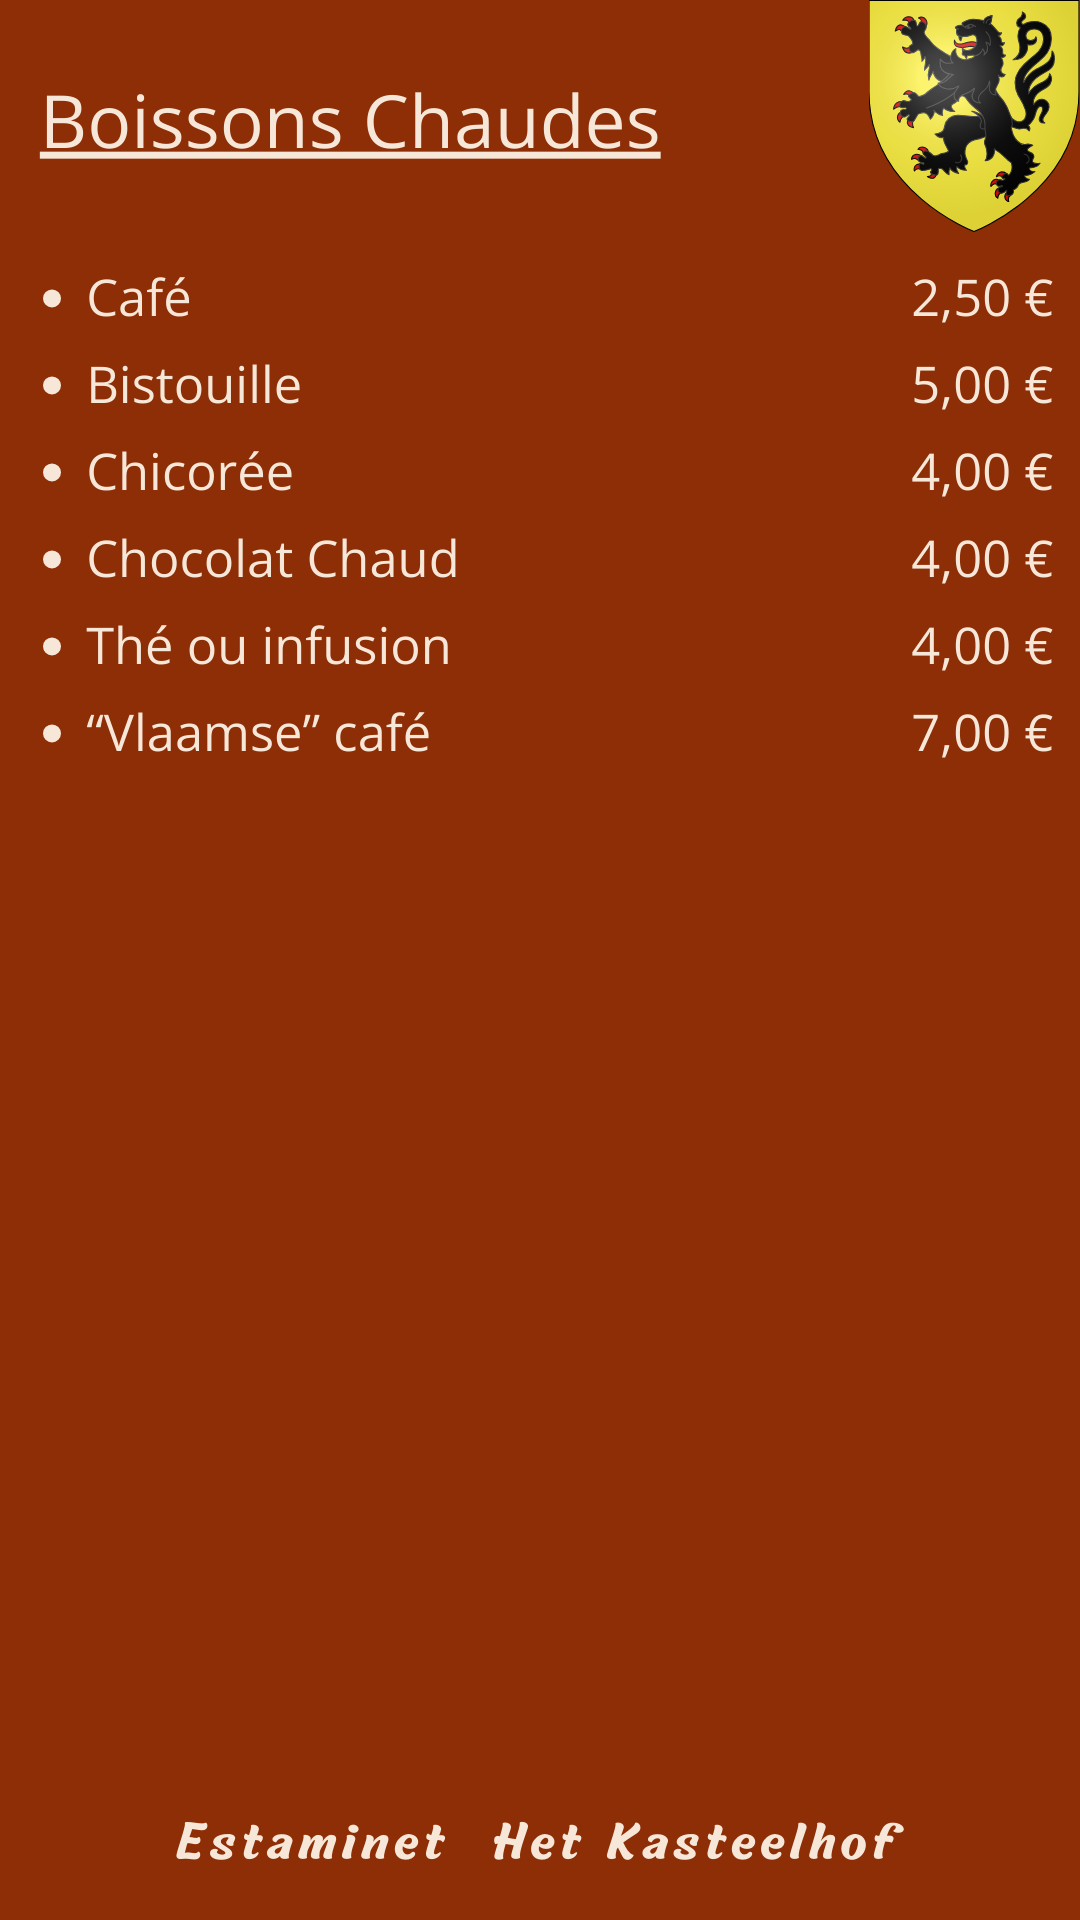
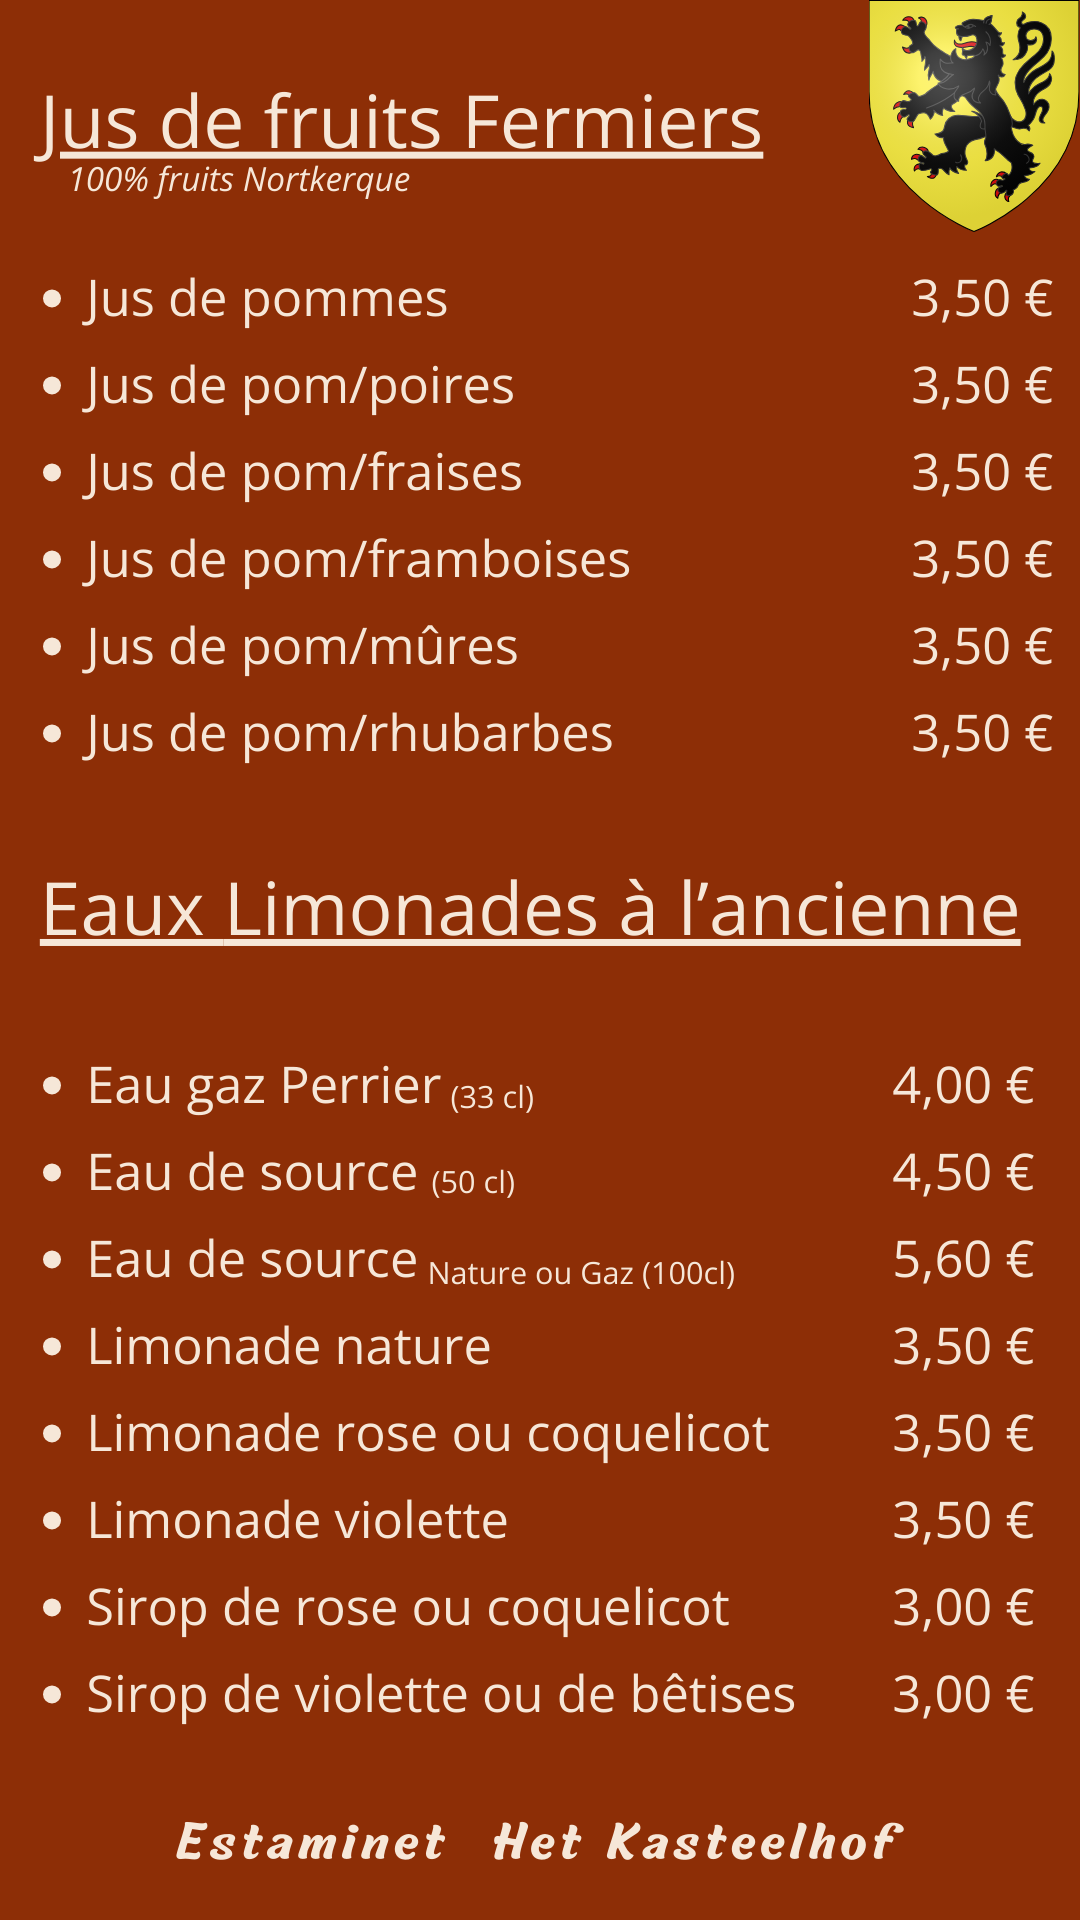
Carte
Ajout de la carte entière

diff --git a/style.css b/style.css
@@ -505,7 +505,7 @@ body {
     cursor: pointer;
     color: white;
     background: var(--dark-orange);
-    opacity: 0.20;
+    opacity: 0.80;
     font-size: 20px;
     user-select: none;
 }
@@ -525,7 +525,7 @@ body {
 
   .slider-img {
     width: 60%;
-    max-height: 500px; /* Réduire la hauteur maximale pour les petits écrans */
+    max-height: 200px; /* Réduire la hauteur maximale pour les petits écrans */
   }
 }
 

diff --git a/script.js b/script.js
@@ -42,7 +42,7 @@ function handleSmoothScroll(e) {
 // 'js/mian.js'
 
 var slider_img = document.querySelector('.slider-img');
-var images = ['a.png', 'b.png', 'c.png'];
+var images = ['a.png', 'b.png', 'c.png', 'd.png', 'e.png', 'f.png', 'g.png', 'h.png', 'i.png', 'j.png'];
 var i = 0;
 
 function prev(){
